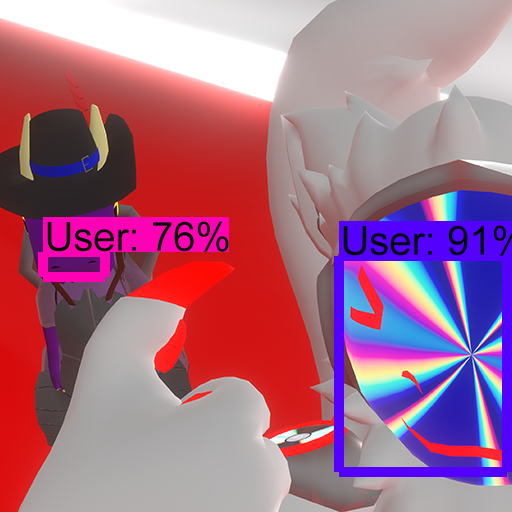
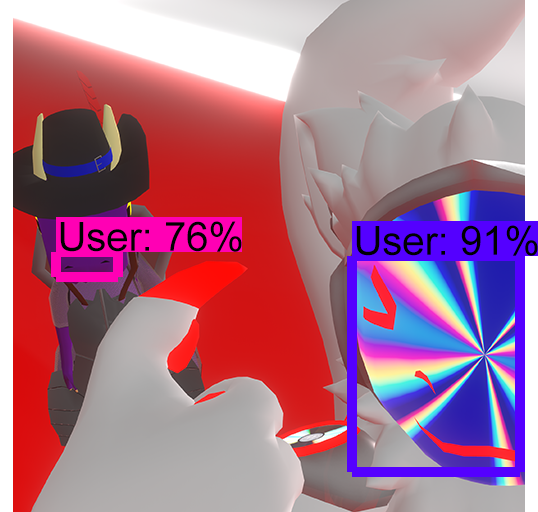
4

diff --git a/images/User/index.html b/images/User/index.html
@@ -1,0 +1,16 @@
+<!DOCTYPE html>
+<html lang="en-US">
+    <head>
+        <meta charset="utf-8">
+        <title>User</title>
+        <link rel="stylesheet" href="/css/index.css">
+        <script src="/js/index.js"></script>
+        <script type="module" src="/modules/jquery.js"></script>
+    </head>
+    <body>
+        <div id="naviframe"></div>
+        <div id="naviframeSpace"></div>
+
+        <p>this directory includes images for User on the index page</p>
+    </body>
+</html>

diff --git a/images/vrchat/index.html b/images/vrchat/index.html
@@ -1,0 +1,16 @@
+<!DOCTYPE html>
+<html lang="en-US">
+    <head>
+        <meta charset="utf-8">
+        <title>User</title>
+        <link rel="stylesheet" href="/css/index.css">
+        <script src="/js/index.js"></script>
+        <script type="module" src="/modules/jquery.js"></script>
+    </head>
+    <body>
+        <div id="naviframe"></div>
+        <div id="naviframeSpace"></div>
+
+        <p>group and private world images</p>
+    </body>
+</html>

diff --git a/images/index.html b/images/index.html
@@ -1,0 +1,16 @@
+<!DOCTYPE html>
+<html lang="en-US">
+    <head>
+        <meta charset="utf-8">
+        <title>User</title>
+        <link rel="stylesheet" href="/css/index.css">
+        <script src="/js/index.js"></script>
+        <script type="module" src="/modules/jquery.js"></script>
+    </head>
+    <body>
+        <div id="naviframe"></div>
+        <div id="naviframeSpace"></div>
+
+        <p>images 9000</p>
+    </body>
+</html>

diff --git a/css/index.css b/css/index.css
@@ -191,16 +191,22 @@ video {
 }
 
 #UserContainer {
-    width: 512px;
+    width: 100%;
     height: 512px;
     display: block;
     margin: auto;
     position: relative;
+    display: flex;
+    justify-content: center;
+    align-items: center;
+}
+#User {
+    max-width: 100%;
 }
 #UserButton {
     background: #ffffff00;
     color: #ffffff00;
-    width: 100%;
+    width: 512px;
     height: 100%;
     position: absolute;
     top: 0;

diff --git a/html/nav.html b/html/nav.html
@@ -1,5 +1,5 @@
 <!DOCTYPE html>
-<html lang="en-CA">
+<html lang="en-US">
     <head>
         <meta charset="utf-8">
         <link rel="stylesheet" href="/css/nav.css">

diff --git a/credits.html b/credits.html
@@ -1,5 +1,5 @@
 <!DOCTYPE html>
-<html lang="en-CA">
+<html lang="en-US">
     <head>
         <meta charset="utf-8">
         <title>credits</title>

diff --git a/caseoh.html b/caseoh.html
@@ -1,5 +1,5 @@
 <!DOCTYPE html>
-<html lang="en-CA">
+<html lang="en-US">
     <head>
         <meta charset="utf-8">
         <title>caseoh</title>

diff --git a/vrchat.html b/vrchat.html
@@ -1,5 +1,5 @@
 <!DOCTYPE html>
-<html lang="en-CA">
+<html lang="en-US">
     <head>
         <meta charset="utf-8">
         <title>vrchat</title>

diff --git a/index.html b/index.html
@@ -1,5 +1,5 @@
 <!DOCTYPE html>
-<html lang="en-CA">
+<html lang="en-US">
     <head>
         <meta charset="utf-8">
         <title>index</title>

diff --git a/404.html b/404.html
@@ -1,5 +1,5 @@
 <!DOCTYPE html>
-<html lang="en-CA">
+<html lang="en-US">
     <head>
         <meta charset="utf-8">
         <title>404</title>
